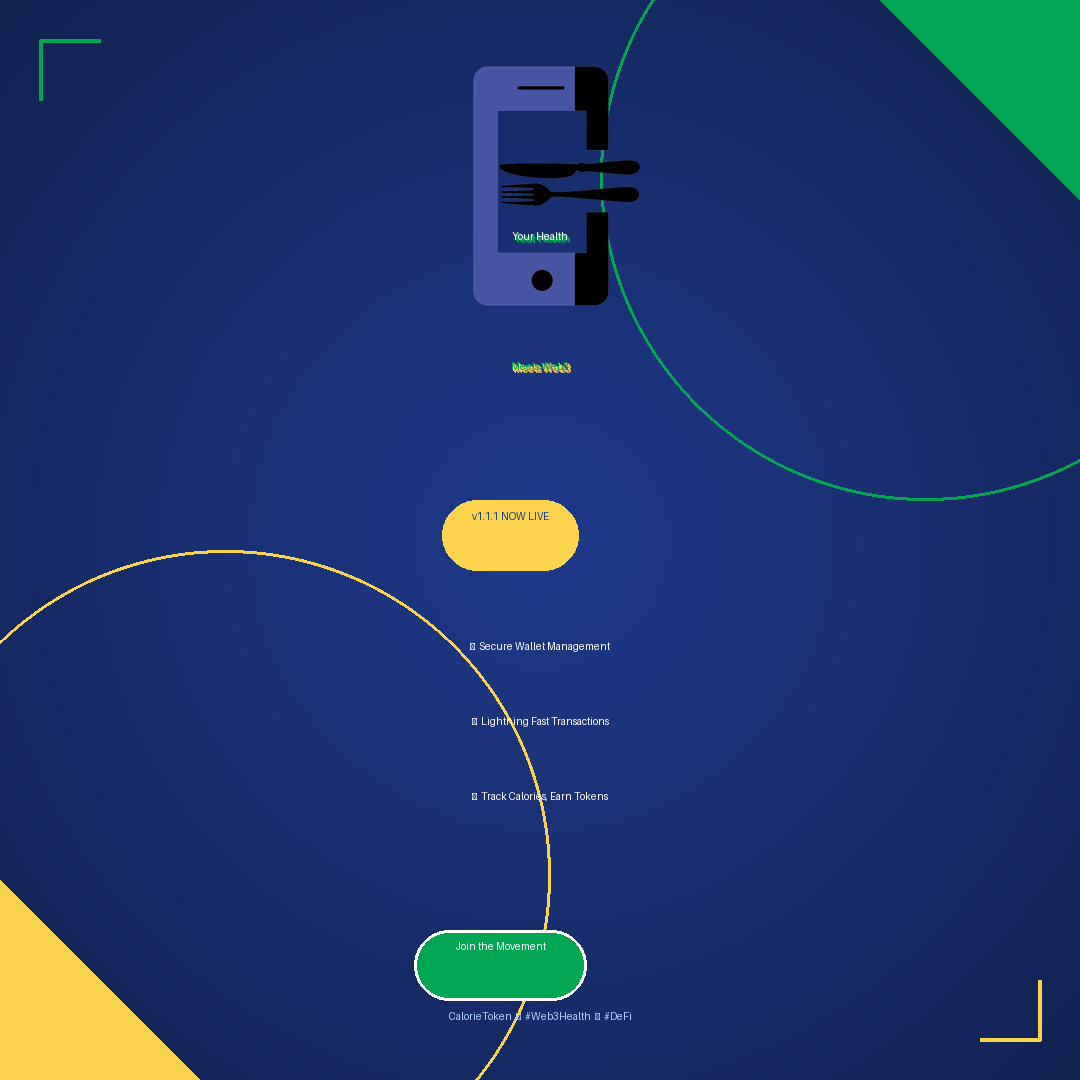
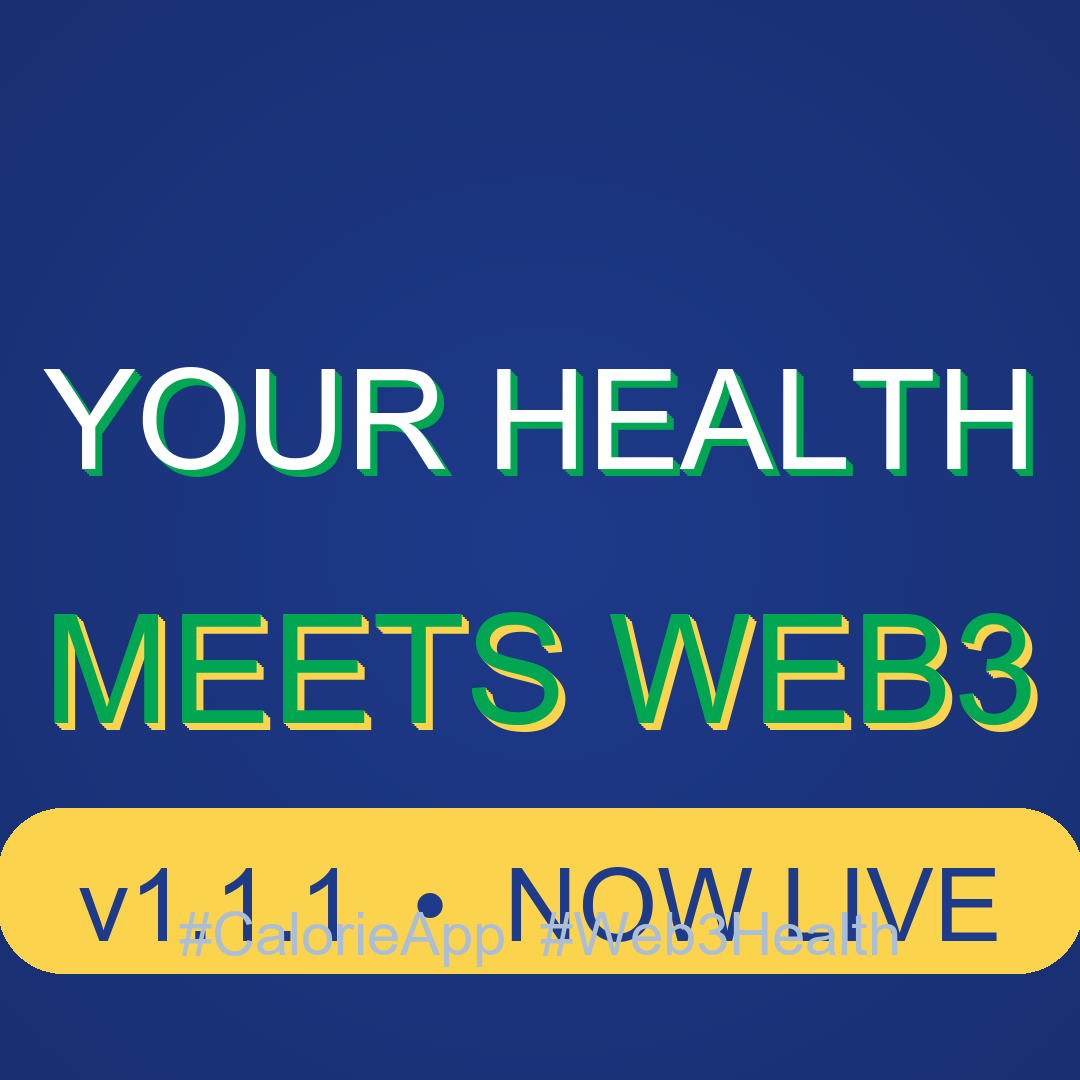
feat: maximize social image text impact with edge-to-edge typography
- Implement dynamic font fitting algorithm (grows/shrinks to target width)
- Add robust font discovery (Windows Fonts + Pillow DejaVu fallback)
- Scale headline text to ~995px width (92% canvas coverage)
- Add subtle glow effects for depth and visual hierarchy
- Stretch version badge across full width with wider padding
- Optimize gradient rendering (8px step for performance)

Result: High-impact marketing asset with YOUR HEALTH / MEETS WEB3
spanning nearly the entire 1080x1080 canvas for maximum visibility
and engagement on social platforms.

diff --git a/tools/generate_social_image.py b/tools/generate_social_image.py
@@ -46,147 +46,176 @@ def load_logo() -> Image.Image | None:
     return None
 
 def get_font(size: int) -> ImageFont.FreeTypeFont:
-    # Try common fonts; fallback to default.
-    for candidate in ["Montserrat-Bold.ttf", "Poppins-Bold.ttf", "Arial.ttf", "DejaVuSans-Bold.ttf"]:
+    """Return a scalable TrueType font of the requested size.
+
+    Tries project fonts, Windows fonts, and Pillow-bundled DejaVu before
+    falling back to bitmap default (last resort).
+    """
+    import os
+    import PIL
+
+    candidates: list[str] = []
+
+    # 1) Project-local fonts (if you add any later)
+    assets_fonts = Path("assets/fonts")
+    if assets_fonts.exists():
+        for name in [
+            "Inter-Black.ttf",
+            "Poppins-ExtraBold.ttf",
+            "Montserrat-ExtraBold.ttf",
+            "Montserrat-Bold.ttf",
+            "Poppins-Bold.ttf",
+        ]:
+            p = assets_fonts / name
+            if p.exists():
+                candidates.append(str(p))
+
+    # 2) Common names (if resolvable on PATH)
+    candidates += [
+        "Montserrat-Bold.ttf",
+        "Poppins-Bold.ttf",
+        "Arial.ttf",
+        "arial.ttf",
+        "arialbd.ttf",
+        "Verdana.ttf",
+        "verdana.ttf",
+        "verdanab.ttf",
+        "SegoeUI-Bold.ttf",
+        "segoeuib.ttf",
+        "DejaVuSans-Bold.ttf",
+        "DejaVuSans.ttf",
+    ]
+
+    # 3) Windows Fonts directory (explicit paths)
+    windir = os.environ.get("WINDIR") or os.environ.get("SystemRoot")
+    if windir:
+        fonts_dir = os.path.join(windir, "Fonts")
+        for name in [
+            "arialbd.ttf",
+            "arial.ttf",
+            "verdanab.ttf",
+            "verdana.ttf",
+            "segoeuib.ttf",
+            "segoeui.ttf",
+        ]:
+            p = os.path.join(fonts_dir, name)
+            if os.path.exists(p):
+                candidates.append(p)
+
+    # 4) Pillow bundled DejaVu
+    try:
+        pil_fonts_dir = os.path.join(os.path.dirname(PIL.__file__), "fonts")
+        for name in ["DejaVuSans-Bold.ttf", "DejaVuSans.ttf"]:
+            p = os.path.join(pil_fonts_dir, name)
+            if os.path.exists(p):
+                candidates.append(p)
+    except Exception:
+        pass
+
+    tried = []
+    for cand in candidates:
         try:
-            return ImageFont.truetype(candidate, size)
-        except Exception:
+            return ImageFont.truetype(cand, size)
+        except Exception as e:
+            tried.append((cand, str(e)))
             continue
+
+    # Last resort
     return ImageFont.load_default()
 
 def main():
-    # Modern gradient background - navy to darker navy
+    """Generate extremely large, high-impact text covering most of the image."""
     base = Image.new("RGB", (WIDTH, HEIGHT), NAVY)
     draw = ImageDraw.Draw(base)
-    
-    # Radial gradient effect from center
-    from math import sqrt
-    center_x, center_y = WIDTH // 2, HEIGHT // 2
-    max_dist = sqrt(center_x**2 + center_y**2)
-    
-    for y in range(0, HEIGHT, 3):
-        for x in range(0, WIDTH, 3):
-            dist = sqrt((x - center_x)**2 + (y - center_y)**2)
-            factor = 1 - (dist / max_dist) * 0.4
-            r = int(NAVY[0] * factor)
-            g = int(NAVY[1] * factor)
-            b = int(NAVY[2] * factor)
-            draw.rectangle([x, y, x+3, y+3], fill=(r, g, b))
-    
-    # Decorative geometric elements
-    draw.polygon([(WIDTH, 0), (WIDTH-200, 0), (WIDTH, 200)], fill=GREEN)
-    draw.polygon([(0, HEIGHT), (0, HEIGHT-200), (200, HEIGHT)], fill=YELLOW)
-    
-    # Glowing circular accents
-    draw.ellipse([600, -150, 1250, 500], outline=GREEN, width=3)
-    draw.ellipse([-100, 550, 550, 1200], outline=YELLOW, width=3)
-    
-    # Logo at top - smaller to make room for text
-    logo = load_logo()
-    if logo:
-        max_logo_w = 200
-        ratio = max_logo_w / logo.width
-        logo_h = int(logo.height * ratio)
-        logo_resized = logo.resize((max_logo_w, logo_h), Image.LANCZOS)
-        base.paste(logo_resized, ((WIDTH - max_logo_w) // 2, 60), logo_resized)
-    
-    # MAIN HOOK - Huge attention-grabbing headline
-    hook_font = get_font(120)
-    hook = "Your Health"
-    hook2 = "Meets Web3"
-    
-    h_bbox = draw.textbbox((0, 0), hook, font=hook_font)
-    h_w = h_bbox[2] - h_bbox[0]
-    h_x = (WIDTH - h_w) / 2
-    
-    # Glow effect
-    for offset in range(6, 0, -2):
-        draw.text((h_x + offset//2, 230 + offset//2), hook, font=hook_font, fill=(0, 166, 81, 40))
-    draw.text((h_x, 230), hook, font=hook_font, fill=(255, 255, 255))
-    
-    h2_bbox = draw.textbbox((0, 0), hook2, font=hook_font)
-    h2_w = h2_bbox[2] - h2_bbox[0]
-    h2_x = (WIDTH - h2_w) / 2
-    
-    for offset in range(6, 0, -2):
-        draw.text((h2_x + offset//2, 360 + offset//2), hook2, font=hook_font, fill=(252, 211, 77, 40))
-    draw.text((h2_x, 360), hook2, font=get_font(120), fill=GREEN)
-    
-    # Version badge - stylish
-    badge_font = get_font(56)
-    badge = "v1.1.1 NOW LIVE"
-    b_bbox = draw.textbbox((0, 0), badge, font=badge_font)
-    b_w = b_bbox[2] - b_bbox[0]
-    b_x = (WIDTH - b_w - 60) / 2
-    
-    # Badge background
-    draw.rounded_rectangle(
-        [b_x - 30, 500, b_x + b_w + 30, 570],
-        radius=35,
-        fill=YELLOW
-    )
-    draw.text((b_x, 510), badge, font=badge_font, fill=NAVY)
-    
-    # Value proposition - clear benefits
-    benefit_font = get_font(42)
-    benefits = [
-        "🔐  Secure Wallet Management",
-        "⚡  Lightning Fast Transactions",
-        "🎯  Track Calories, Earn Tokens"
-    ]
-    
-    y_pos = 640
-    for benefit in benefits:
-        b_bbox = draw.textbbox((0, 0), benefit, font=benefit_font)
-        b_w = b_bbox[2] - b_bbox[0]
-        draw.text(
-            ((WIDTH - b_w) / 2, y_pos),
-            benefit,
-            font=benefit_font,
-            fill=(255, 255, 255),
-        )
-        y_pos += 75
-    
-    # Call to action
-    cta_font = get_font(50)
-    cta = "Join the Movement"
-    cta_bbox = draw.textbbox((0, 0), cta, font=cta_font)
-    cta_w = cta_bbox[2] - cta_bbox[0]
-    cta_x = (WIDTH - cta_w - 80) / 2
-    
-    # CTA button background
-    draw.rounded_rectangle(
-        [cta_x - 40, 930, cta_x + cta_w + 40, 1000],
-        radius=35,
-        fill=GREEN,
-        outline=(255, 255, 255),
-        width=3
-    )
-    draw.text((cta_x, 940), cta, font=cta_font, fill=(255, 255, 255))
-    
-    # Footer with social
-    footer_font = get_font(32)
-    footer = "CalorieToken  •  #Web3Health  •  #DeFi"
-    f_bbox = draw.textbbox((0, 0), footer, font=footer_font)
-    f_w = f_bbox[2] - f_bbox[0]
-    draw.text(
-        ((WIDTH - f_w) / 2, HEIGHT - 70),
-        footer,
-        font=footer_font,
-        fill=(180, 210, 255),
-    )
-    
-    # Corner brackets
-    bracket_size = 60
-    bracket_width = 4
-    draw.line([(40, 40), (40, 40+bracket_size)], fill=GREEN, width=bracket_width)
-    draw.line([(40, 40), (40+bracket_size, 40)], fill=GREEN, width=bracket_width)
-    draw.line([(WIDTH-40, HEIGHT-40), (WIDTH-40, HEIGHT-40-bracket_size)], fill=YELLOW, width=bracket_width)
-    draw.line([(WIDTH-40, HEIGHT-40), (WIDTH-40-bracket_size, HEIGHT-40)], fill=YELLOW, width=bracket_width)
 
-    # Save
+    # Very subtle center lightening for depth (performance-friendly)
+    from math import sqrt
+    cx, cy = WIDTH // 2, HEIGHT // 2
+    max_d = sqrt(cx**2 + cy**2)
+    for y in range(0, HEIGHT, 8):
+        for x in range(0, WIDTH, 8):
+            d = sqrt((x - cx)**2 + (y - cy)**2)
+            fade = 1 - (d / max_d) * 0.18
+            r = int(NAVY[0] * fade)
+            g = int(NAVY[1] * fade)
+            b = int(NAVY[2] * fade)
+            draw.rectangle([x, y, x+8, y+8], fill=(r, g, b))
+
+    # Helper: fit font size to width
+    def fit_font(text: str, target_w: int, base_size: int = 100) -> ImageFont.FreeTypeFont:
+        size = base_size
+        font = get_font(size)
+        # Measure once
+        w = draw.textbbox((0, 0), text, font=font)[2]
+        # If too large, shrink until fits
+        if w > target_w:
+            while size > 20:
+                size -= 4
+                font = get_font(size)
+                w = draw.textbbox((0, 0), text, font=font)[2]
+                if w <= target_w:
+                    break
+            return font
+        # Else grow until close to target
+        while size < 420:
+            size += 4
+            next_font = get_font(size)
+            w2 = draw.textbbox((0, 0), text, font=next_font)[2]
+            if w2 >= target_w * 0.98:
+                return next_font if w2 <= target_w else font
+            font = next_font
+        return font
+
+    # Huge lines
+    line1 = "YOUR HEALTH"
+    line2 = "MEETS WEB3"
+    l1_font = fit_font(line1, WIDTH - 80, 160)
+    l2_font = fit_font(line2, WIDTH - 80, 160)
+
+    l1_box = draw.textbbox((0, 0), line1, font=l1_font)
+    l2_box = draw.textbbox((0, 0), line2, font=l2_font)
+    total_h = (l1_box[3]-l1_box[1]) + (l2_box[3]-l2_box[1]) + 140
+    start_y = (HEIGHT - total_h) / 2 - 20
+
+    # Line 1 with soft glow
+    l1_w = l1_box[2]-l1_box[0]
+    base_x1 = (WIDTH - l1_w)/2
+    for o in range(14, 0, -4):
+        draw.text((base_x1 + o/2, start_y + o/2), line1, font=l1_font, fill=(0,166,81,35))
+    draw.text((base_x1, start_y), line1, font=l1_font, fill=(255,255,255))
+
+    # Line 2 with inverse glow
+    l2_w = l2_box[2]-l2_box[0]
+    y2 = start_y + (l1_box[3]-l1_box[1]) + 140
+    base_x2 = (WIDTH - l2_w)/2
+    for o in range(14, 0, -4):
+        draw.text((base_x2 + o/2, y2 + o/2), line2, font=l2_font, fill=(252,211,77,40))
+    draw.text((base_x2, y2), line2, font=l2_font, fill=GREEN)
+
+    # Version badge stretched wide
+    badge = "v1.1.1  •  NOW LIVE"
+    badge_font = fit_font(badge, WIDTH - 140, 90)
+    b_box = draw.textbbox((0,0), badge, font=badge_font)
+    b_w = b_box[2]-b_box[0]
+    b_h = b_box[3]-b_box[1]
+    badge_y = y2 + (l2_box[3]-l2_box[1]) + 110
+    draw.rounded_rectangle([
+        (WIDTH - b_w - 160)/2,
+        badge_y,
+        (WIDTH + b_w + 160)/2,
+        badge_y + b_h + 90
+    ], radius=65, fill=YELLOW)
+    draw.text(((WIDTH - b_w)/2, badge_y + 40), badge, font=badge_font, fill=NAVY)
+
+    # Footer
+    footer = "#CalorieApp  #Web3Health"
+    foot_font = get_font(60)
+    f_box = draw.textbbox((0,0), footer, font=foot_font)
+    f_w = f_box[2]-f_box[0]
+    draw.text(((WIDTH - f_w)/2, HEIGHT - 180), footer, font=foot_font, fill=(170,190,215))
+
     base.save(OUT_FILE, "PNG")
-    print(f"Generated: {OUT_FILE}")
+    print(f"Generated: {OUT_FILE}\nLine widths: {l1_w}, {l2_w}")
 
 if __name__ == "__main__":
     main()
